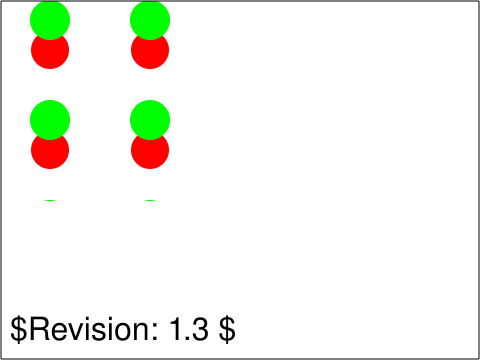
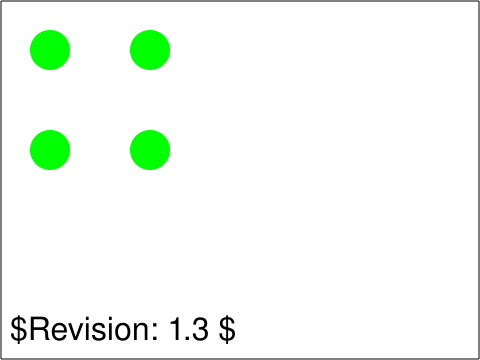
[Qt] Support drawing a pattern with a translation. https://bugs.webkit.org/show_bug.cgi?id=87025
Source/WebCore:

Drawing an SVG pattern that has its x or y attribute set
works by setting a transform on the Pattern.
We would ignore this by only taking into account the texture and
target rect.

Reviewed by Kenneth Rohde Christiansen.

test: svg/W3C-SVG-1.1-SE/pservers-pattern-04-f.svg

* platform/graphics/qt/GraphicsContextQt.cpp:
(WebCore::drawRepeatPattern): refactored to take into account the translation set on the brush.
(WebCore::GraphicsContext::fillRect):

LayoutTests:

Reviewed by Kenneth Rohde Christiansen.

* platform/qt-5.0/svg/W3C-SVG-1.1-SE/pservers-pattern-04-f-expected.png: fix the expected pixel result

Identifier: 105895@main
git-svn-id: https://svn.webkit.org/repository/webkit/trunk@119216 268f45cc-cd09-0410-ab3c-d52691b4dbfc

diff --git a/Source/WebCore/platform/graphics/qt/GraphicsContextQt.cpp b/Source/WebCore/platform/graphics/qt/GraphicsContextQt.cpp
@@ -591,71 +591,51 @@ void GraphicsContext::strokePath(const Path& path)
         fillPathStroke(p, pathStroker, platformPath, pen.brush());
 }
 
-static inline void drawRepeatPattern(QPainter* p, QPixmap* image, const FloatRect& rect, const bool repeatX, const bool repeatY)
+static inline void drawRepeatPattern(QPainter* p, PassRefPtr<Pattern> pattern, const FloatRect& rect)
 {
+    ASSERT(pattern);
+
+    AffineTransform affine;
+    const QBrush brush = pattern->createPlatformPattern(affine);
+    if (brush.style() != Qt::TexturePattern)
+        return;
+
+    const bool repeatX = pattern->repeatX();
+    const bool repeatY = pattern->repeatY();
     // Patterns must be painted so that the top left of the first image is anchored at
     // the origin of the coordinate space
-    if (image) {
-        int w = image->width();
-        int h = image->height();
-        int startX, startY;
-        QRect r(static_cast<int>(rect.x()), static_cast<int>(rect.y()), static_cast<int>(rect.width()), static_cast<int>(rect.height()));
 
-        // startX, startY is the coordinate of the first image we need to put on the left-top of the rect
-        if (repeatX && repeatY) {
-            // repeat
-            // startX, startY is at the left top side of the left-top of the rect
-            startX = r.x() >=0 ? r.x() - (r.x() % w) : r.x() - (w - qAbs(r.x()) % w);
-            startY = r.y() >=0 ? r.y() - (r.y() % h) : r.y() - (h - qAbs(r.y()) % h);
-        } else {
-           if (!repeatX && !repeatY) {
-               // no-repeat
-               // only draw the image once at orgin once, check if need to draw
-               QRect imageRect(0, 0, w, h);
-               if (imageRect.intersects(r)) {
-                   startX = 0;
-                   startY = 0;
-               } else
-                   return;   
-           } else if (repeatX && !repeatY) {
-               // repeat-x
-               // startY is fixed, but startX change based on the left-top of the rect
-               QRect imageRect(r.x(), 0, r.width(), h);
-               if (imageRect.intersects(r)) {
-                   startX = r.x() >=0 ? r.x() - (r.x() % w) : r.x() - (w - qAbs(r.x()) % w);
-                   startY = 0;
-               } else
-                   return;
-           } else {
-               // repeat-y
-               // startX is fixed, but startY change based on the left-top of the rect
-               QRect imageRect(0, r.y(), w, r.height());
-               if (imageRect.intersects(r)) {
-                   startX = 0;
-                   startY = r.y() >=0 ? r.y() - (r.y() % h) : r.y() - (h - qAbs(r.y()) % h);
-               } else
-                   return;
-           }
-        }
+    QRectF targetRect(rect);
+    const int w = brush.texture().width();
+    const int h = brush.texture().height();
 
-        int x = startX;
-        int y = startY; 
-        do {
-            // repeat Y
-            do {
-                // repeat X
-                QRect   imageRect(x, y, w, h);
-                QRect   intersectRect = imageRect.intersected(r);
-                QPoint  destStart(intersectRect.x(), intersectRect.y());
-                QRect   sourceRect(intersectRect.x() - imageRect.x(), intersectRect.y() - imageRect.y(), intersectRect.width(), intersectRect.height());
+    ASSERT(p);
+    QRegion oldClip;
+    if (p->hasClipping())
+        oldClip = p->clipRegion();
 
-                p->drawPixmap(destStart, *image, sourceRect);
-                x += w;
-            } while (repeatX && x < r.x() + r.width());
-            x = startX;
-            y += h;
-        } while (repeatY && y < r.y() + r.height());
+    // The only type of transforms supported for the brush are translations.
+    ASSERT(!brush.transform().isRotating());
+
+    QRectF clip = targetRect;
+    QRectF patternRect = brush.transform().mapRect(QRectF(0, 0, w, h));
+    if (!repeatX) {
+        clip.setLeft(patternRect.left());
+        clip.setWidth(patternRect.width());
     }
+    if (!repeatY) {
+        clip.setTop(patternRect.top());
+        clip.setHeight(patternRect.height());
+    }
+    if (!repeatX || !repeatY)
+        p->setClipRect(clip);
+
+    p->fillRect(targetRect, brush);
+
+    if (!oldClip.isEmpty())
+        p->setClipRegion(oldClip);
+    else if (!repeatX || !repeatY)
+        p->setClipping(false);
 }
 
 void GraphicsContext::fillRect(const FloatRect& rect)
@@ -668,14 +648,13 @@ void GraphicsContext::fillRect(const FloatRect& rect)
     ShadowBlur* shadow = shadowBlur();
 
     if (m_state.fillPattern) {
-        QPixmap* image = m_state.fillPattern->tileImage()->nativeImageForCurrentFrame();
         GraphicsContext* shadowContext = hasShadow() ? shadow->beginShadowLayer(this, normalizedRect) : 0;
         if (shadowContext) {
             QPainter* shadowPainter = shadowContext->platformContext();
-            drawRepeatPattern(shadowPainter, image, normalizedRect, m_state.fillPattern->repeatX(), m_state.fillPattern->repeatY());
+            drawRepeatPattern(shadowPainter, m_state.fillPattern, normalizedRect);
             shadow->endShadowLayer(this);
         }
-        drawRepeatPattern(p, image, normalizedRect, m_state.fillPattern->repeatX(), m_state.fillPattern->repeatY());
+        drawRepeatPattern(p, m_state.fillPattern, normalizedRect);
     } else if (m_state.fillGradient) {
         QBrush brush(*m_state.fillGradient->platformGradient());
         brush.setTransform(m_state.fillGradient->gradientSpaceTransform());
